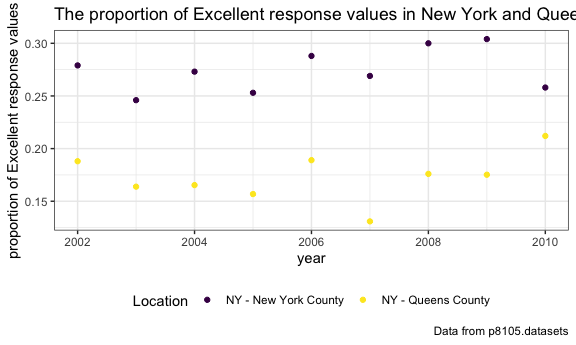
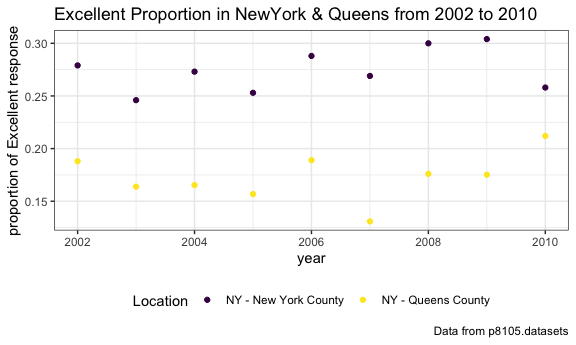
fix bug

Changed region(s): [[0.0938, 0.0, 1.0, 0.058], [0.0, 0.0, 0.0312, 0.7536]]

diff --git a/p8105_hw2_tl2882.md b/p8105_hw2_tl2882.md
@@ -239,12 +239,11 @@ filter(brfss, locationdesc == "NY - New York County" | locationdesc == "NY - Que
   ggplot(aes(x = year, y = excellent_proportion, color = locationdesc)) + 
     geom_point() + 
     labs(
-      title = "The proportion of Excellent response values in New York and Queens County from 2002 to 2010",
-      y = "proportion of Excellent response values", 
+      title = "Excellent Proportion in NewYork & Queens from 2002 to 2010",
+      y = "proportion of Excellent response", 
       caption = "Data from p8105.datasets"
     ) + 
-    viridis::scale_color_viridis(name = "Location", discrete = TRUE) + 
-    theme(legend.position = "bottom")
+    viridis::scale_color_viridis(name = "Location", discrete = TRUE)
 ```
 
 <img src="p8105_hw2_tl2882_files/figure-markdown_github/Problem_3_4-1.png" width="90%" />
